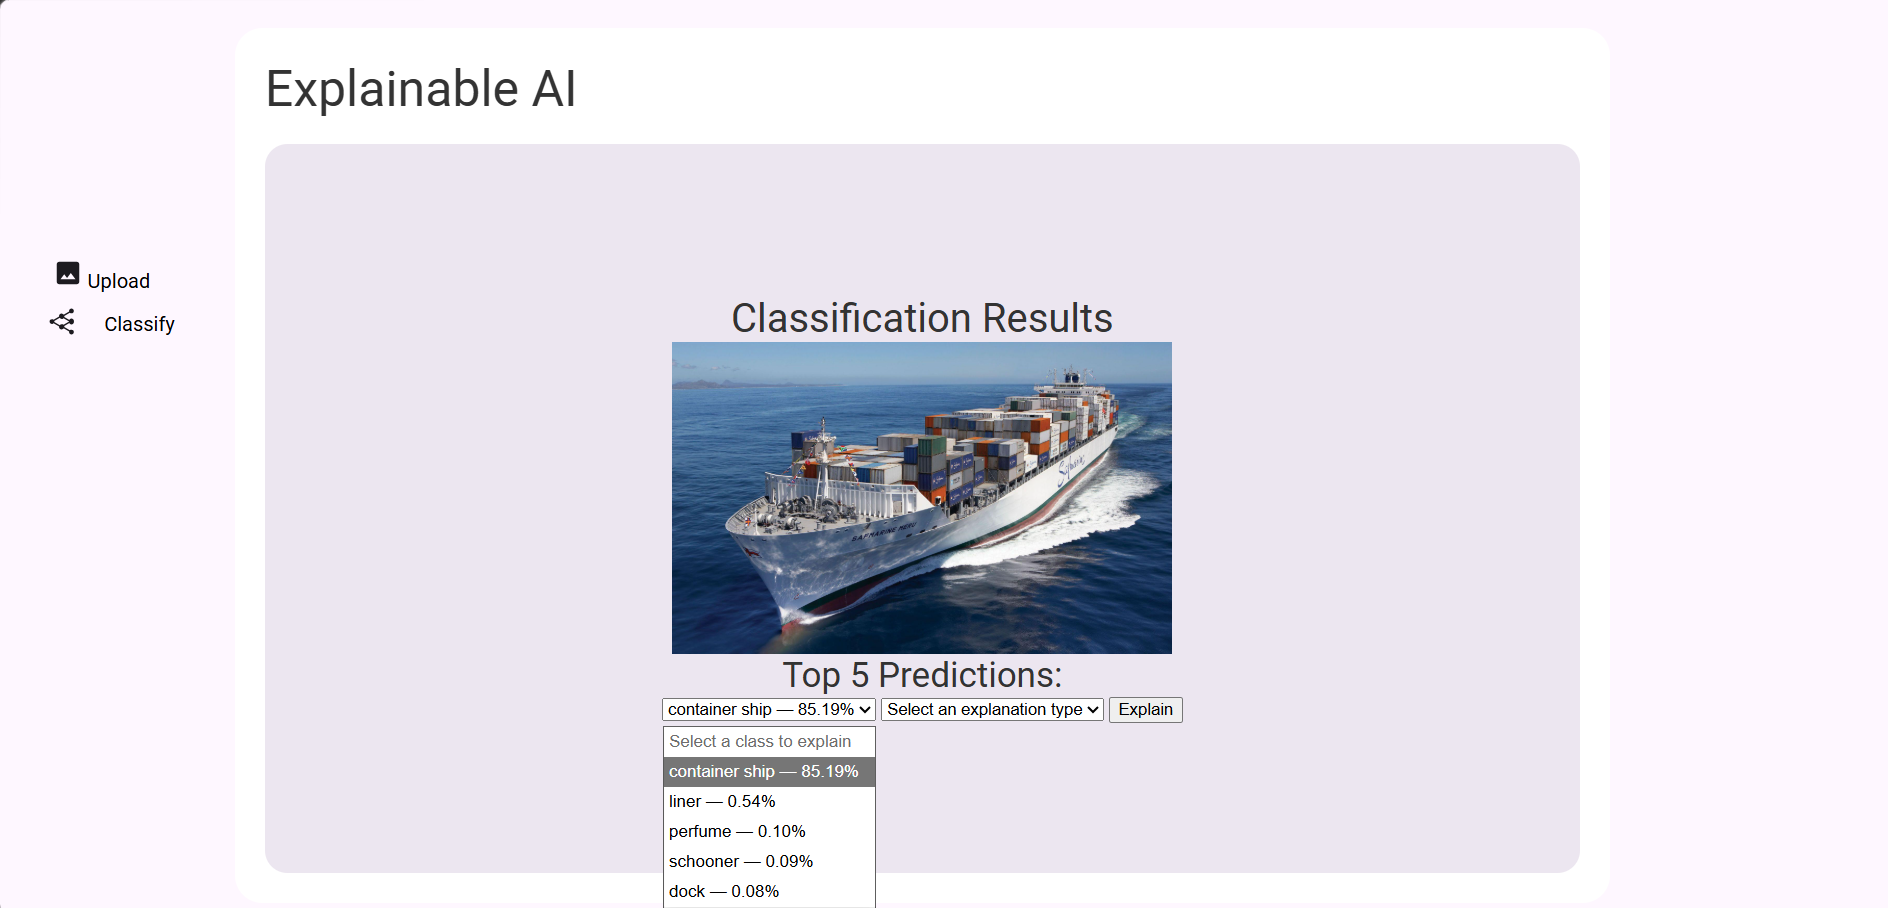
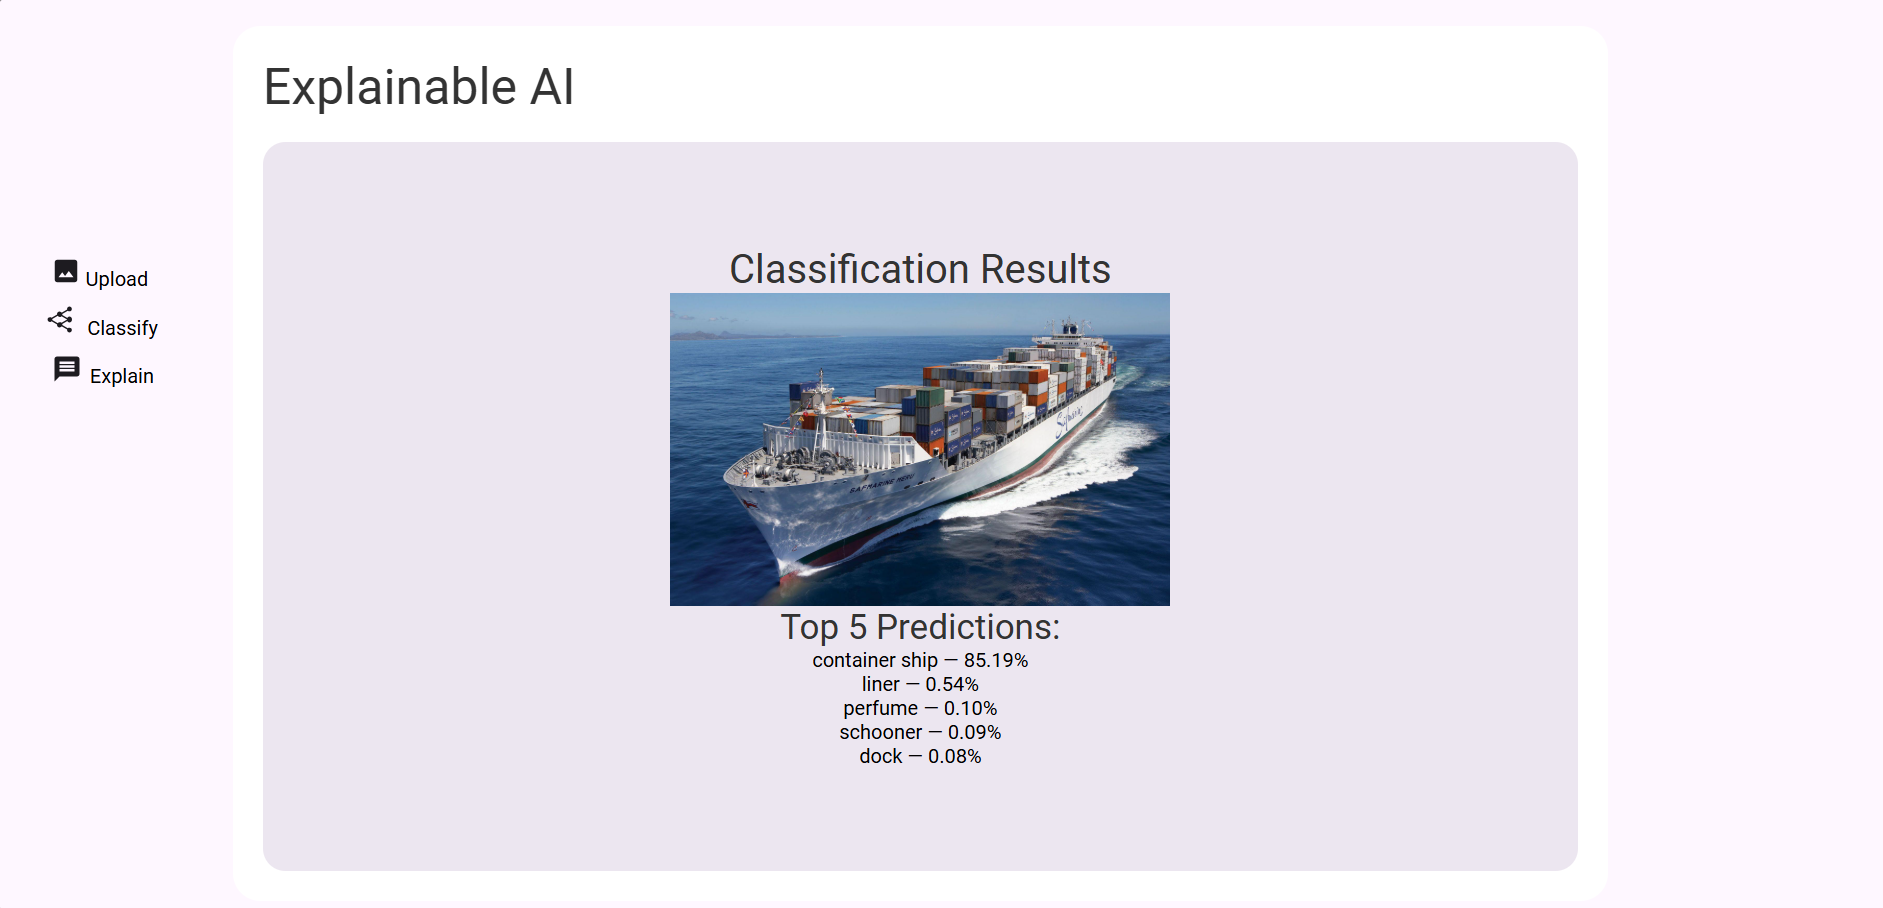
Explain-Button öffnet Dialog

diff --git a/src/app/views/templates/prediction.html b/src/app/views/templates/prediction.html
@@ -4,32 +4,44 @@
 
 <img src="{{ image_url }}" alt="Uploaded Image" style="max-width: 400px" />
 <h3>Top {{ class_predictions|length }} Predictions:</h3>
+{% for p in class_predictions %}
+    <div>{{ p.class_name }} — {{ "%.2f"|format(p.confidence * 100) }}%</div>
+{% endfor %}
 
-<form action="/explain" method="post" id="explain-form" onsubmit="return validateSelection()">
-  <select id="prediction-select" onchange="updateValues(this)">
-    <option disabled selected>Select a class to explain</option>
-    {% for p in class_predictions %}
-    <option data-class-id="{{ p.class_id }}" data-class-name="{{ p.class_name }}" data-confidence="{{ p.confidence }}">
-      {{ p.class_name }} — {{ "%.2f"|format(p.confidence * 100) }}%
-    </option>
-    {% endfor %}
-  </select>
+<div id="explainModal" class="modal">
+  <div class="modal-content">
+    <span class="close" onclick="closeExplanationModal()">&times;</span>
 
-  <input type="hidden" name="class_id" id="class_id" />
-  <input type="hidden" name="class_name" id="class_name" />
-  <input type="hidden" name="confidence" id="confidence" />
+    <h3>Select explanation</h3>
 
-  <select name="expanation_type" id="expanation_type" onchange="updateMethod(value)">
-    <option disabled selected>Select an explanation type</option>
-    <option value="Gradcam">
-      Gradcam
-    </option>
-    <option value="LIME">
-      LIME
-    </option>
-  </select>
-  <button id="submit_button" type="submit">Explain</button>
-</form>
+    <form action="/explain" method="post" id="explain-form" onsubmit="return validateSelection()">
+      <select id="prediction-select" onchange="updateValues(this)">
+        <option disabled selected>Select a class to explain</option>
+        {% for p in class_predictions %}
+        <option data-class-id="{{ p.class_id }}" data-class-name="{{ p.class_name }}" data-confidence="{{ p.confidence }}">
+          {{ p.class_name }} — {{ "%.2f"|format(p.confidence * 100) }}%
+        </option>
+        {% endfor %}
+      </select>
+
+      <input type="hidden" name="class_id" id="class_id" />
+      <input type="hidden" name="class_name" id="class_name" />
+      <input type="hidden" name="confidence" id="confidence" />
+
+      <select name="expanation_type" id="expanation_type" onchange="updateMethod(value)">
+        <option disabled selected>Select an explanation type</option>
+        <option value="Gradcam">
+          Gradcam
+        </option>
+        <option value="LIME">
+          LIME
+        </option>
+      </select>
+        <button id="submit_button" type="submit">Explain</button>
+    </form>
+
+  </div>
+</div>
 
 
 <script>

diff --git a/src/app/views/templates/layout.html b/src/app/views/templates/layout.html
@@ -12,7 +12,7 @@
     <nav>
       <section class="togglers-container">
         <form id="upload" action="/upload" method="post" enctype="multipart/form-data">
-          <label for="file-input" class="file-label">
+          <label id="upload-button" for="file-input" class="file-label">
             <img src="../static/assets/icons/image_icon.svg">
           </label>
           <input id="file-input" type="file" name="file" accept="image/png, image/jpeg" style="display:none;" required
@@ -22,9 +22,13 @@
           <input type="hidden" name="image_url" value="{{ image_url }}" />
           <button id="classify-button" type="submit"><img src="../static/assets/icons/share_icon.svg" id="share-1"><img
               src="../static/assets/icons/share_icon.svg" id="share-2"><img src="../static/assets/icons/share_icon.svg"
-              id="share-3"></button> Classify
+              id="share-3"></button> <span id="classify-text">Classify</span>
         </form>
-      </section>
+          <div>
+              <button onclick="openExplanationModal()" id="explain-button">
+                  <img src="../static/assets/icons/comment_icon.svg">
+              </button>Explain
+          </div>
       </section>
     </nav>
   </header>
@@ -41,3 +45,13 @@
 </body>
 
 </html>
+
+<script>
+    function openExplanationModal() {
+        document.getElementById("explainModal").style.display = "block";
+    }
+
+    function closeExplanationModal() {
+        document.getElementById("explainModal").style.display = "none";
+    }
+</script>

diff --git a/src/app/views/static/css/style.css b/src/app/views/static/css/style.css
@@ -145,13 +145,21 @@ body>main>header h1 {
   left: -12px;
 }
 
-#classify-button {
+#classify-button, #explain-button {
   background: none;
   border: none;
   cursor: pointer;
 }
 
+#upload-button {
+    cursor: pointer;
+}
 
+#classify-text {
+    position: relative;
+    left: -12px;
+    top: 5px;
+}
 
 @media (max-width: 1200px) {
   body {
@@ -162,4 +170,29 @@ body>main>header h1 {
     width: 100%;
     height: auto;
   }
+}
+
+.modal {
+  display: none;
+  position: fixed;
+  z-index: 1;
+  left: 0;
+  top: 0;
+  width: 100%;
+  height: 100%;
+  background-color: rgba(0,0,0,0.5);
+}
+
+.modal-content {
+  background-color: white;
+  margin: 10% auto;
+  padding: 20px;
+  width: 400px;
+  border-radius: 10px;
+}
+
+.close {
+  float: right;
+  font-size: 24px;
+  cursor: pointer;
 }

diff --git a/documentation/ausarbeitung/htwsaar-i-mst-vorlage-2.25/htwsaar-i-mst-vorlage-2.25/Chapters/Implementierung.tex b/documentation/ausarbeitung/htwsaar-i-mst-vorlage-2.25/htwsaar-i-mst-vorlage-2.25/Chapters/Implementierung.tex
@@ -17,9 +17,9 @@ Unter dem Bild kann über ein Dropdown-Menü das Modell zur Klassifizierung ausg
 \includegraphics[width=\linewidth]{Graphics/uploaded_image}
 \captionof{figure}{Anzeige des hochgeladenen Bildes}
 Das hochgeladene Bild kann dann mit dem Classify-Button klassifiziert werden.
-Dann erscheinen unter dem Bild zwei Dropdown-Menüs zur Auswahl einer der 5 wahrscheinlichsten Klassen und einer Erklärungsart.\\
+Durch Klick auf den Explain-Button öffnet sich ein Dialog mit zwei Dropdown-Menüs zur Auswahl einer der 5 wahrscheinlichsten Klassen und einer Erklärungsart.\\
 \includegraphics[width=\linewidth]{Graphics/classified_image}
-\captionof{figure}{Anzeige der 5 wahrscheinlichsten Klasse in einem Dropdown-Menü}
+\captionof{figure}{Anzeige der 5 wahrscheinlichsten Klassen}
 Die möglichen Erklärungsarten sind Grad-CAM und LIME.
 Durch Klick auf den Explain-Button wird die ausgewählte Erklärung für die ausgewählte Klasse ausgeführt und eine Heatmap über dem Bild angezeigt.
 Bei Grad-CAM markieren verschiedene Farben die Relevanz bestimmter Bereiche für die Klassifizierung des Bildes.
